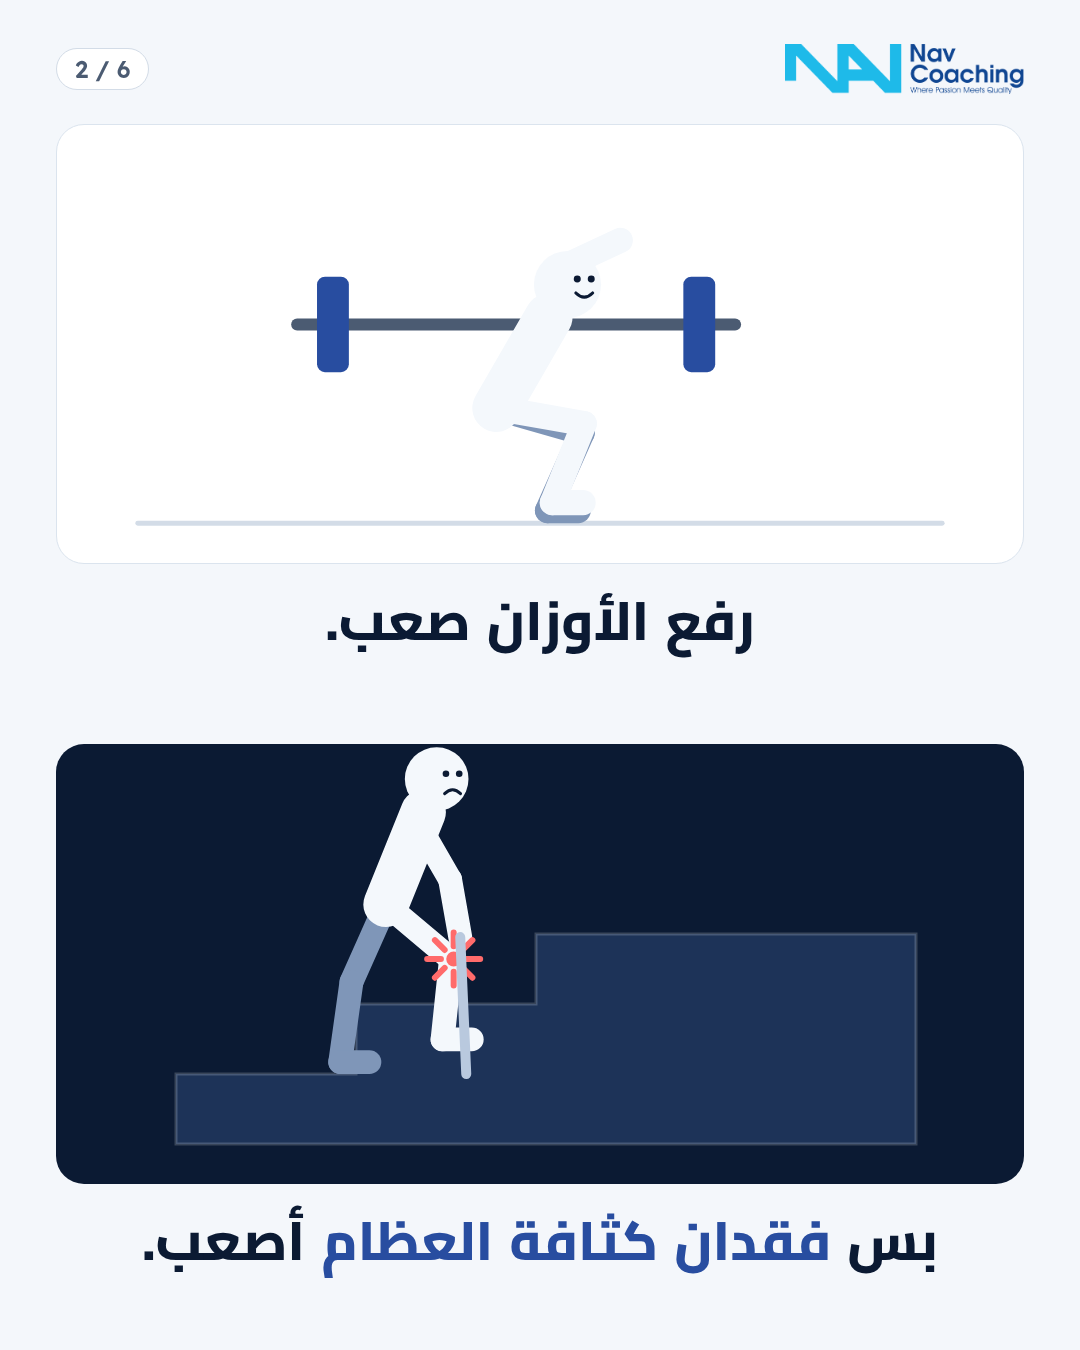
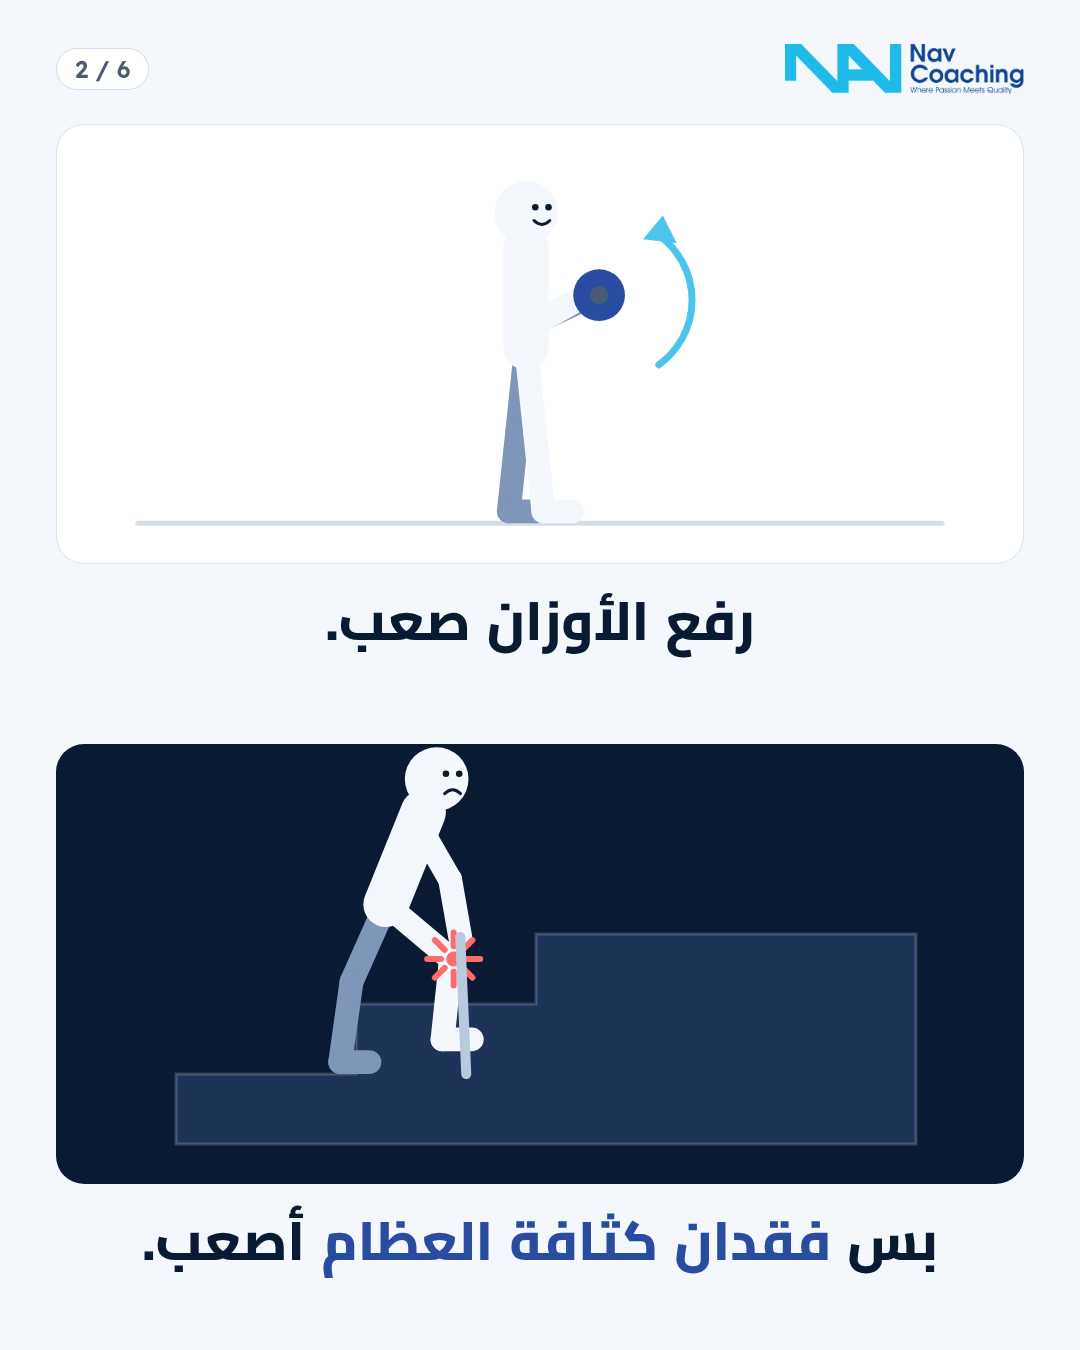
Hard/harder carousel: weightlifting panel shows a dumbbell curl
Claude-Session: https://claude.ai/code/session_014K8VAaJoHdbEmLTmDkRNee

Changed region(s): [[0.5194, 0.1556, 0.7028, 0.28], [0.275, 0.1867, 0.4889, 0.28], [0.4583, 0.28, 0.55, 0.4044]]

diff --git a/instagram/harder/slides.html b/instagram/harder/slides.html
@@ -66,8 +66,9 @@ const FL=400, dark='#0b1a33';window.SC=0.78;
 const W=(svg)=>`<svg viewBox="0 0 968 440">${svg}</svg>`;
 const fl=(c)=>`<line x1="80" y1="${FL}" x2="888" y2="${FL}" stroke="${c}" stroke-width="5" stroke-linecap="round"/>`;
 const G={
- squat:()=>{const f=figure({x:440,floor:FL,t:30,legs:[[74,-24],[80,-22]],arms:[[150,110],[160,115]],mood:'happy',s:0.9});
-   const y=f.head.y+40;return fl('#d3dce7')+`<line x1="${f.H.x-200}" y1="${y}" x2="${f.H.x+240}" y2="${y}" stroke="#4b5b72" stroke-width="12" stroke-linecap="round"/><rect x="${f.H.x-180}" y="${y-48}" width="32" height="96" rx="8" fill="#284da0"/><rect x="${f.H.x+188}" y="${y-48}" width="32" height="96" rx="8" fill="#284da0"/>`+f.svg},
+ squat:()=>{const f=figure({x:470,floor:FL,t:0,legs:[[-6,-6],[6,6]],arms:[[4,115],[8,120]],mood:'happy',s:0.85,twoArms:1});const h=f.hand;
+   const db=(x,y)=>`<circle cx="${x}" cy="${y}" r="26" fill="#284da0"/><circle cx="${x}" cy="${y}" r="9" fill="#4b5b72"/>`;
+   const ax=h.x+14,ay=h.y;return fl('#d3dce7')+f.svg+db(ax,ay)+`<path d="M${ax+60} ${ay+70} A80 80 0 0 0 ${ax+60} ${ay-60}" fill="none" stroke="#4cc5ed" stroke-width="7" stroke-linecap="round"/><path d="M${ax+44} ${ay-56} L${ax+64} ${ay-80} L${ax+78} ${ay-52}z" fill="#4cc5ed"/>`},
  cane:()=>{const st=`<path d="M120 ${FL} L120 ${FL-70} L300 ${FL-70} L300 ${FL-140} L480 ${FL-140} L480 ${FL-210} L860 ${FL-210} L860 ${FL}z" fill="#1d3358" stroke="#ffffff30" stroke-width="3"/>`;
    const f=figure({x:330,floor:FL-70,t:22,legs:[[-24,-8],[50,-6]],arms:[[40,20],[30,10]],pain:[1],mood:'sad',s:0.85,oneArm:1});
    const h=f.hand;return st+f.svg+`<line x1="${h.x}" y1="${h.y}" x2="${h.x+6}" y2="${FL-70}" stroke="#b9c9de" stroke-width="10" stroke-linecap="round"/>`},
